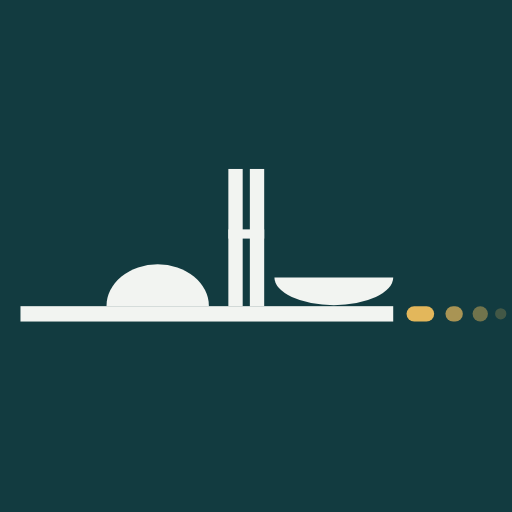
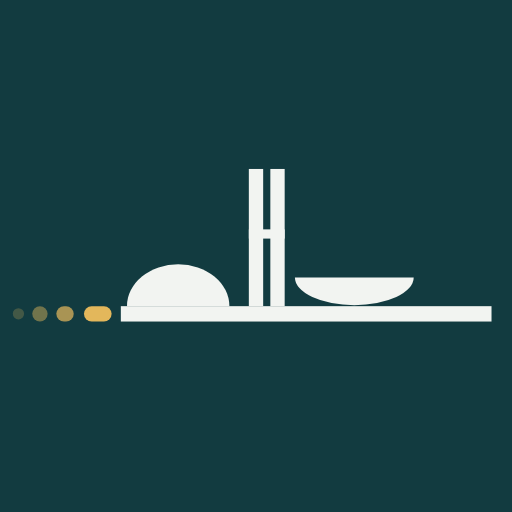
Símbolo com a linha pontilhada chegando ao Congresso
Claude-Session: https://claude.ai/code/session_01AFDeNHnLKUin8CN1KbLaKi

Changed region(s): [[0.0312, 0.3125, 0.6562, 0.6562], [0.6875, 0.5312, 1.0, 0.6562]]

diff --git a/index.html b/index.html
@@ -13,12 +13,12 @@
 <meta property="og:url" content="https://exterminadores.com.br/">
 <meta property="og:title" content="Os exterminadores do futuro">
 <meta property="og:description" content="O que a direita e a extrema-direita fazem no Congresso, todos os dias. Projetos e votações com dados oficiais da Câmara e do Senado.">
-<meta property="og:image" content="https://exterminadores.com.br/compartilhar.jpg?v=2">
+<meta property="og:image" content="https://exterminadores.com.br/compartilhar.jpg?v=3">
 <meta property="og:image:width" content="1200">
 <meta property="og:image:height" content="630">
 <meta property="og:image:alt" content="Os exterminadores do futuro. Observatório da direita no Congresso.">
 <meta name="twitter:card" content="summary_large_image">
-<meta name="twitter:image" content="https://exterminadores.com.br/compartilhar.jpg?v=2">
+<meta name="twitter:image" content="https://exterminadores.com.br/compartilhar.jpg?v=3">
 <link rel="preconnect" href="https://fonts.googleapis.com">
 <link rel="preconnect" href="https://fonts.gstatic.com" crossorigin>
 <link href="https://fonts.googleapis.com/css2?family=Big+Shoulders+Display:wght@700;900&family=Public+Sans:ital,wght@0,400;0,500;0,600;0,700;1,400&display=swap" rel="stylesheet">
@@ -288,7 +288,7 @@ footer a{color:#fff}
 <header class="hero">
   <div class="wrap">
     <div>
-    <div class="marca-hero"><svg viewBox="0 290 1000 370" aria-hidden="true" focusable="false"><g fill="#F2F4F1"><path d="M208 598 A100 82 0 0 1 408 598 Z"/><rect x="446" y="330" width="28" height="268"/><rect x="488" y="330" width="28" height="268"/><rect x="446" y="448" width="70" height="18"/><path d="M536 542 A116 54 0 0 0 768 542 Z"/><rect x="0" y="598" width="768" height="30"/></g><g fill="#E3B75B"><rect x="794" y="598" width="54" height="30" rx="15"/><rect x="870" y="598" width="34" height="30" rx="15" opacity=".72"/><circle cx="938" cy="613" r="15" opacity=".46"/><circle cx="978" cy="613" r="11" opacity=".24"/></g></svg><h1>Os exterminadores<br>do futuro</h1></div>
+    <div class="marca-hero"><svg viewBox="0 290 1000 370" aria-hidden="true" focusable="false"><g fill="#F2F4F1"><path d="M248 598 A100 82 0 0 1 448 598 Z"/><rect x="486" y="330" width="28" height="268"/><rect x="528" y="330" width="28" height="268"/><rect x="486" y="448" width="70" height="18"/><path d="M576 542 A116 54 0 0 0 808 542 Z"/><rect x="236" y="598" width="724" height="30"/></g><g fill="#E3B75B"><circle cx="36" cy="613" r="11" opacity=".24"/><circle cx="78" cy="613" r="15" opacity=".46"/><rect x="110" y="598" width="34" height="30" rx="15" opacity=".72"/><rect x="164" y="598" width="54" height="30" rx="15"/></g></svg><h1>Os exterminadores<br>do futuro</h1></div>
     <p class="slogan">O que a direita faz no Congresso, todos os dias.</p>
     <p class="lede">Um observatório dos movimentos da direita e da extrema-direita na Câmara dos Deputados e no Senado Federal. Cada projeto apresentado e cada voto, com os dados oficiais das duas Casas, atualizados diariamente.</p>
     </div>

diff --git a/emendas.html b/emendas.html
@@ -12,7 +12,7 @@
 <meta property="og:url" content="https://exterminadores.com.br/emendas.html">
 <meta property="og:title" content="Emendas parlamentares | Os exterminadores do futuro">
 <meta property="og:description" content="Para onde a direita e a extrema-direita mandam o dinheiro das emendas ao Orçamento. Dados do Portal da Transparência.">
-<meta property="og:image" content="https://exterminadores.com.br/compartilhar.jpg?v=2">
+<meta property="og:image" content="https://exterminadores.com.br/compartilhar.jpg?v=3">
 <meta name="twitter:card" content="summary_large_image">
 <title>Emendas parlamentares</title>
 <link rel="preconnect" href="https://fonts.googleapis.com">
